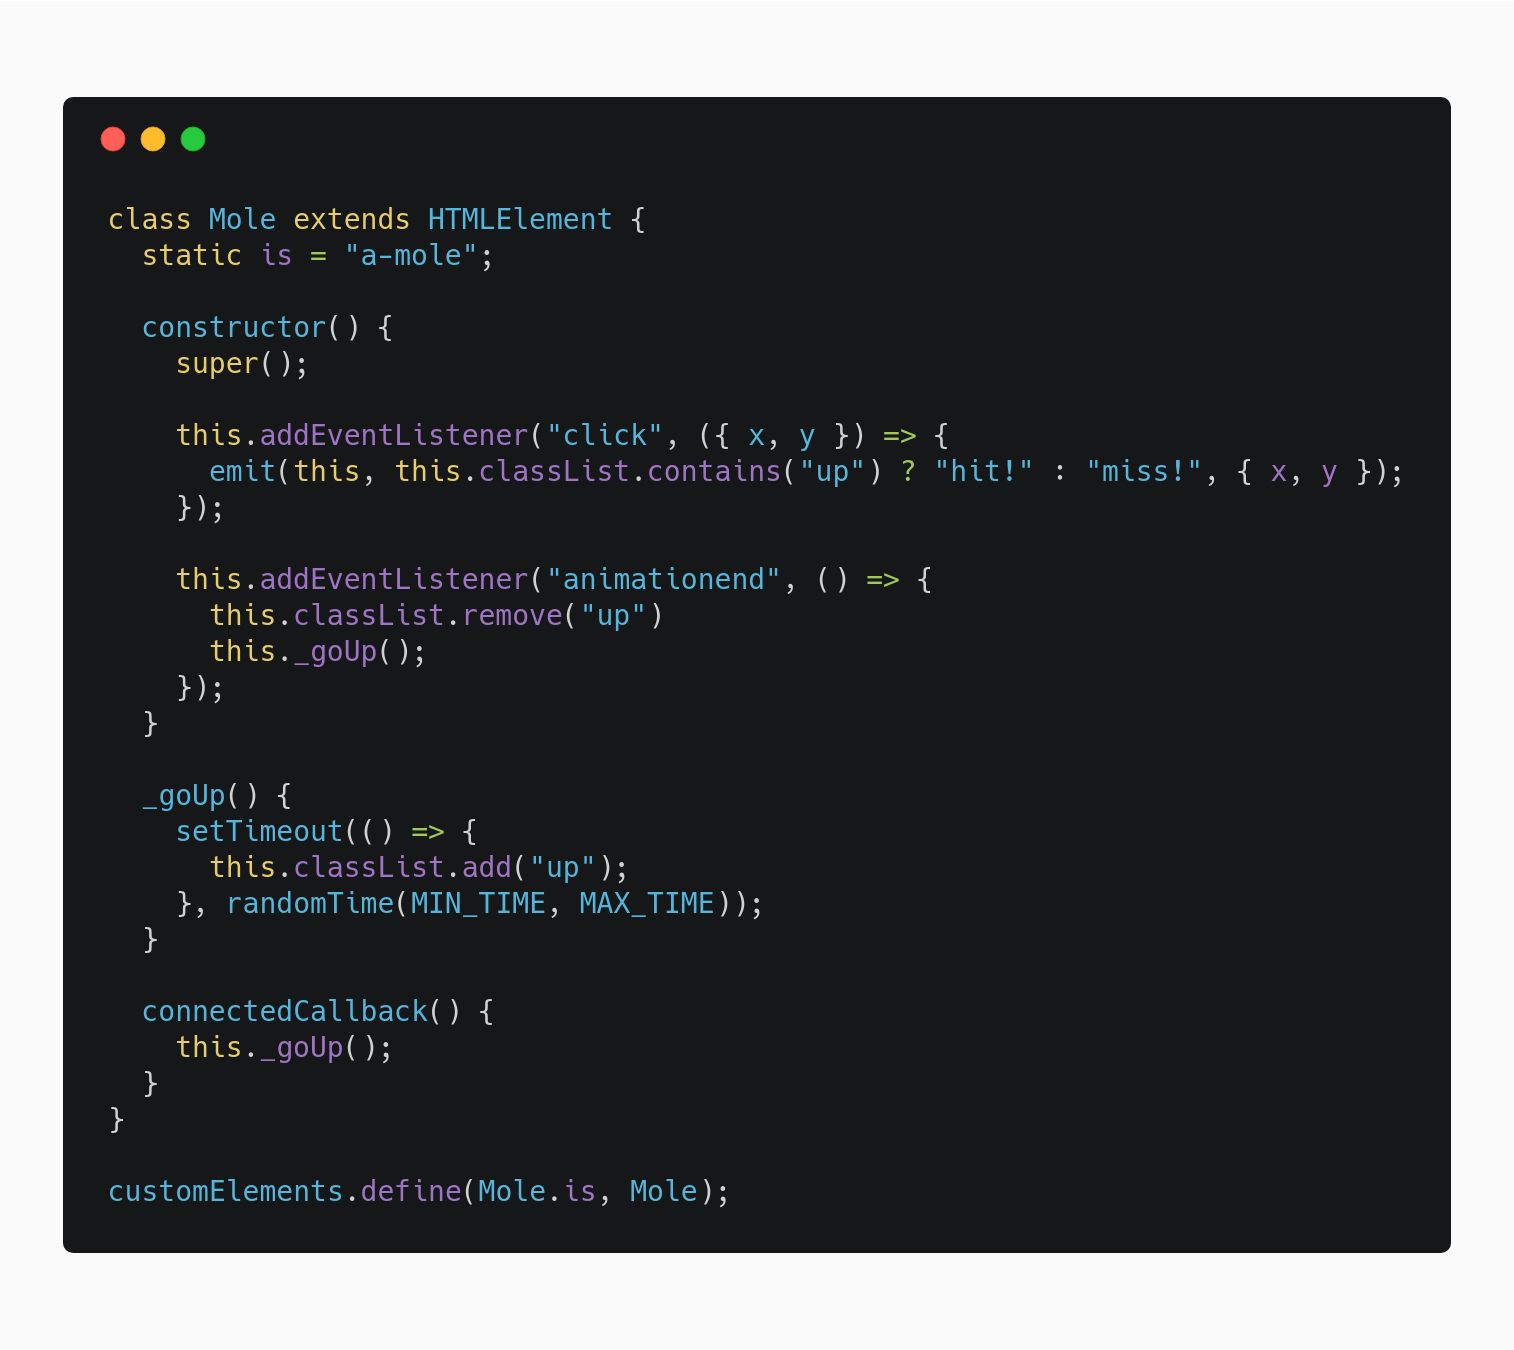
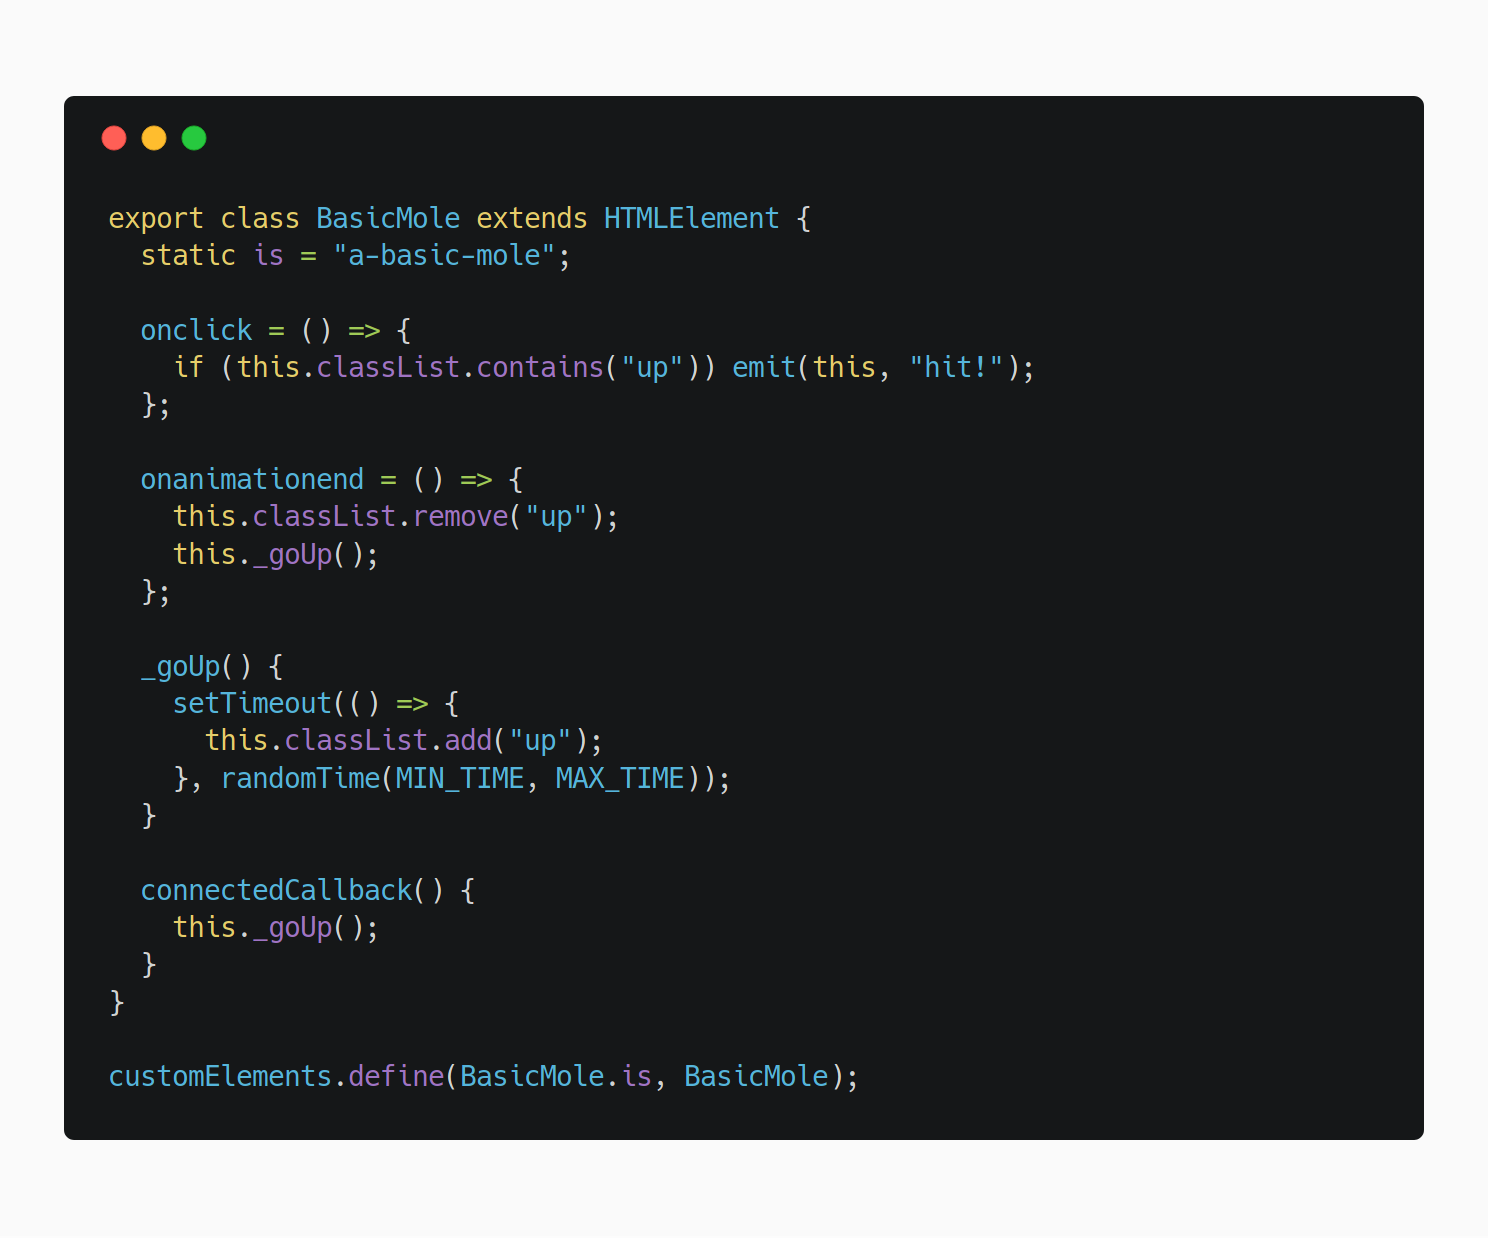
lot of things

diff --git a/packages/slides/src/example/callbag-final-whack.js b/packages/slides/src/example/callbag-final-whack.js
@@ -18,53 +18,54 @@ let hitMessage = ({ x, y }) =>
     y
   });
 
-let startCallbag = el =>
+let start = el =>
   pipe(
     fromEvent(el.querySelector(".start"), "click"),
     map(() => ({
+      type: "START",
       score: 0,
-      lives: 5,
-      start: true
+      lives: 5
     }))
   );
 
-let hitCallbag = el =>
+let hit = el =>
   pipe(
     fromEvent(el, "hit!"),
     map(({ detail }) => ({
+      type: "HIT",
       score: 1,
-      hit: detail
+      coords: detail
     }))
   );
 
-let missCallbag = el =>
+let miss = el =>
   pipe(
     fromEvent(el, "miss!"),
     map(() => ({
-      lives: -1,
-      miss: true
+      type: "MISS",
+      lives: -1
     }))
   );
 
 let manageState = (el, moles, score, lives) => action => {
-  if (action.start) {
-    moles.forEach(mole => mole.start());
-    score.value = action.score;
-    lives.value = action.lives;
-  }
+  switch (action.type) {
+    case "START":
+      moles.forEach(mole => mole.start());
+      score.value = action.score;
+      lives.value = action.lives;
+      break;
+    case "HIT":
+      score.value += action.score;
+      el.appendChild(hitMessage(action.coords));
+      break;
+    case "MISS":
+      lives.value += action.lives;
 
-  if (action.hit) {
-    el.appendChild(hitMessage(action.hit));
-    score.value += action.score;
-  }
-
-  if (action.miss) {
-    lives.value += action.lives;
-
-    if (lives.value === 0) {
-      moles.forEach(mole => mole.stop());
-      el.appendChild(loseMessage());
-    }
+      if (lives.value === 0) {
+        moles.forEach(mole => mole.stop());
+        el.appendChild(loseMessage());
+      }
+      break;
   }
 };
 
@@ -74,7 +75,7 @@ export function callbagWhack(el) {
   let moles = [].slice.call(el.querySelectorAll("a-mole"));
 
   pipe(
-    merge(startCallbag(el), hitCallbag(el), missCallbag(el)),
+    merge(start(el), hit(el), miss(el)),
     observe(manageState(el, moles, score, lives))
   );
 }

diff --git a/packages/slides/src/example/Mole.js b/packages/slides/src/example/Mole.js
@@ -11,42 +11,43 @@ function randomTime(min, max) {
 export class Mole extends HTMLElement {
   static is = "a-mole";
 
-  constructor() {
-    super();
+  _hit = false;
+  _start = false;
+  _timeout = null;
 
-    this.addEventListener("click", ({ x, y }) => {
-      if (this.classList.contains("up") && !this._hit) {
-        emit(this, "hit!", { x, y });
-        this._hit = true;
-      }
-    });
+  onclick = ({ x, y }) => {
+    if (this.isHittable) {
+      emit(this, "hit!", { x, y });
+      this._hit = true;
+    }
+  };
 
-    this.addEventListener("animationend", () => {
-      if (!this._hit && this._start) {
-        emit(this, "miss!");
-      }
+  onanimationend = () => {
+    if (this.isHittable) emit(this, "miss!");
 
-      this._hit = false;
-      this.classList.remove("up");
-      this._goUp();
-    });
+    this._hit = false;
+    this.classList.remove("up");
+
+    if (this._active) this._goUp();
+  };
+
+  get isHittable() {
+    return this.classList.contains("up") && !this._hit && this._active;
   }
 
   _goUp() {
-    if (this._start) {
-      this._timeout = setTimeout(() => {
-        this.classList.add("up");
-      }, randomTime(MIN_TIME, MAX_TIME));
-    }
+    this._timeout = setTimeout(() => {
+      this.classList.add("up");
+    }, randomTime(MIN_TIME, MAX_TIME));
   }
 
   start() {
-    this._start = true;
+    this._active = true;
     this._goUp();
   }
 
   stop() {
-    this._start = false;
+    this._active = false;
     clearTimeout(this._timeout);
   }
 }

diff --git a/packages/slides/index.html b/packages/slides/index.html
@@ -117,7 +117,10 @@
                 <img src="images/code-examples/score-board.png" class="full">
             </x-slide>
             <x-slide>
-                <img src="images/code-examples/derived-state.png" class="full">
+                <img src="images/code-examples/fn+score+lives.png" class="full">
+            </x-slide>
+            <x-slide>
+                <img src="images/code-examples/mole.png" class="full">
             </x-slide>
             <x-slide class="example3">
                 <button class="start">Start</button>
@@ -144,7 +147,10 @@
                 </div>
             </x-slide>
             <x-slide>
-                <img src="images/code-examples/derived-state.png" class="full">
+                <img src="images/code-examples/fn+messages.png" class="full">
+            </x-slide>
+            <x-slide>
+                <img src="images/code-examples/animated-message.png" class="full">
             </x-slide>
             <x-slide class="example4">
                 <button class="start">Start</button>
@@ -216,10 +222,6 @@
                     <a-mole></a-mole>
                     <a-mole></a-mole>
                 </div>
-            </x-slide>
-            <x-slide>
-                <h2>Unit testing?</h2>
-                <p>Inside a browser with Puppeteer & Karma</p>
             </x-slide>
             <x-slide>
                 <h2>Useful libraries</h2>

diff --git a/packages/slides/src/presentation.js b/packages/slides/src/presentation.js
@@ -1,21 +1,36 @@
 import observe from "callbag-observe";
 
-import { pipe, map, merge, scan, share } from "callbag-basics-esmodules";
-import { arrowKeyPress$ } from "./stream";
+import { pipe, map, merge, scan, share, fromEvent, filter } from "callbag-basics-esmodules";
 import { Deck } from "./Deck";
 import { Progress } from "./Progress";
 
+let fromArrowKeyDown = el => pipe(
+  fromEvent(el, "keydown"),
+  map(evt => evt.key || evt.keyCode || evt.which),
+  map(
+    key =>
+      typeof key === "string"
+        ? key
+        : key === 38
+          ? "ArrowUp"
+          : key === 40
+            ? "ArrowDown"
+            : key === 37 ? "ArrowLeft" : key === 39 ? "ArrowRight" : ""
+  ),
+  filter(key => key.indexOf("Arrow") === 0)
+);
+
 let slideModifier$ = pipe(
-  arrowKeyPress$,
+  fromArrowKeyDown(document),
   map(key => (key === "ArrowRight" || key === "ArrowUp" ? 1 : -1))
 );
 
 export let presentation = el => {
   let deck = el.querySelector("x-deck");
   let progress = el.querySelector("x-progress");
-  let initialSlide = location.hash.slice(1) || deck.active || 0;
+  let initialSlide = location.hash.slice(1) || deck.active;
 
-  deck.active = parseInt(initialSlide, 10);
+  deck.active = Math.max(parseInt(initialSlide, 10), 0);
 
   pipe(
     slideModifier$,

diff --git a/packages/slides/src/example/BasicMole.js b/packages/slides/src/example/BasicMole.js
@@ -11,18 +11,14 @@ function randomTime(min, max) {
 export class BasicMole extends HTMLElement {
   static is = "a-basic-mole";
 
-  constructor() {
-    super();
+  onclick = () => {
+    if (this.classList.contains("up")) emit(this, "hit!");
+  };
 
-    this.addEventListener("click", () => {
-      if (this.classList.contains("up")) emit(this, "hit!");
-    });
-
-    this.addEventListener("animationend", () => {
-      this.classList.remove("up");
-      this._goUp();
-    });
-  }
+  onanimationend = () => {
+    this.classList.remove("up");
+    this._goUp();
+  };
 
   _goUp() {
     setTimeout(() => {

diff --git a/packages/slides/src/example/Lives.js b/packages/slides/src/example/Lives.js
@@ -1,0 +1,15 @@
+import { define, HTMLElement } from "my-custom-elements-loader";
+
+export class Lives extends HTMLElement {
+  static is = "lives-count";
+
+  get value() {
+    return this.querySelectorAll('.heart').length;
+  }
+
+  set value(value) {
+    this.innerHTML = Array.apply(null, Array(value)).map(() => '<i class="heart"></i>').join('');
+  }
+}
+
+define(Lives.is, Lives);

diff --git a/packages/slides/index.css b/packages/slides/index.css
@@ -127,6 +127,14 @@ a-basic-mole.up::before, a-mole.up::before{
   font-family: monospace;
 }
 
+.heart {
+  display: inline-block;
+  background: url("images/heart.svg") bottom center no-repeat;
+  background-size: contain;
+  width: 20px;
+  height: 20px;
+}
+
 @keyframes mole-animation {
   0% {
     transform: translateY(0);

diff --git a/packages/slides/src/example/index.js b/packages/slides/src/example/index.js
@@ -1,6 +1,7 @@
 import "./BasicMole";
 import "./Mole";
 import "./ScoreBoard";
+import "./Lives";
 import { simpleWhack } from "./simple-whack";
 import { scoredWhack } from "./scored-whack";
 import { callbagWhack } from "./callbag-final-whack";
